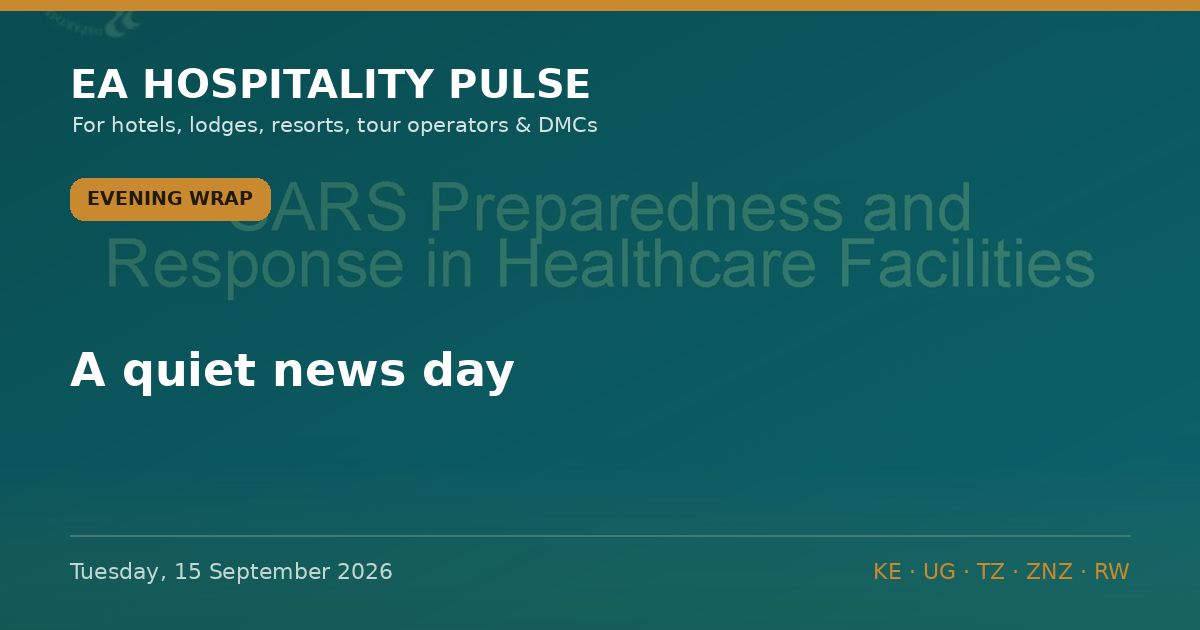
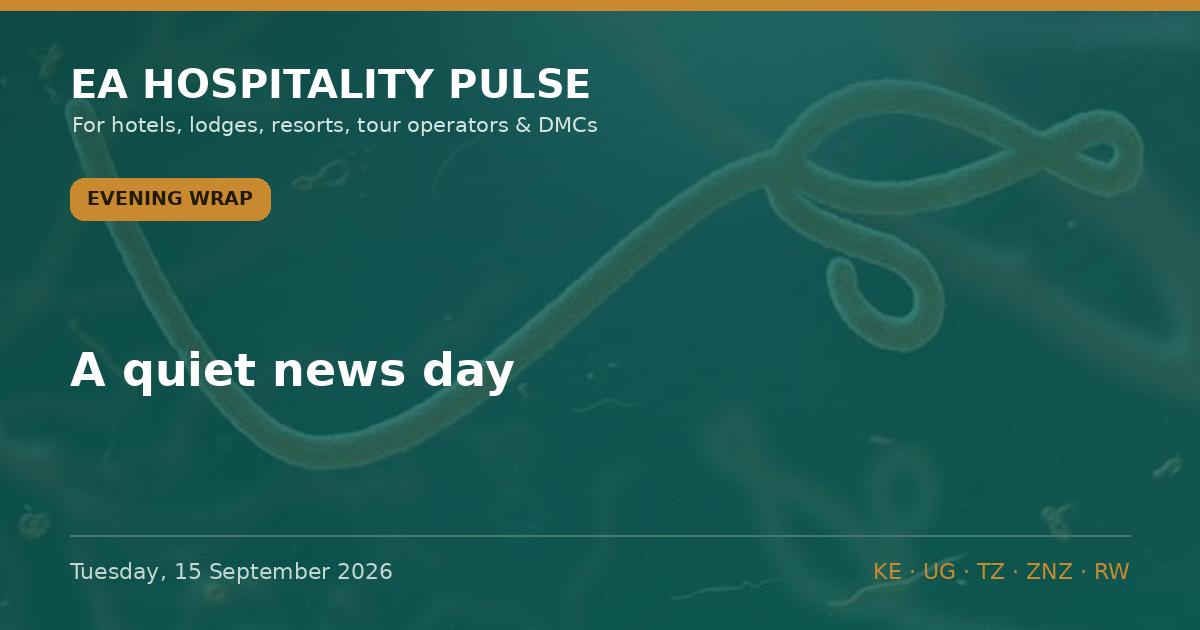
Auto-build: 2026-09-15 13:56 UTC

diff --git a/data.js b/data.js
@@ -6,7 +6,7 @@ window.EDITIONS = [
   "edition": "Evening Wrap",
   "editionKey": "evening",
   "summary": "A quiet news day. So here is the thing about Ebola this industry is measuring wrongly.",
-  "bodyHtml": "<p><span class=\"meta-line\">🏨 EA HOSPITALITY PULSE — Evening Wrap</span><br><span class=\"meta-line\">📅 Tuesday, 15 September 2026 | 🇰🇪 🇺🇬 🇷🇼 🇹🇿</span></p>\n<p>A quiet news day. So here is the thing about Ebola this industry is measuring wrongly.<br>━━━━━━━━━<br><strong>1⃣ THE NUMBER THAT PRICES YOUR Q4 IS NOT A CASE COUNT. IT IS MAP RESOLUTION.</strong></p>\n<p>DRC now stands at <strong>7,200 confirmed cases and 3,475 deaths</strong> on data to 12 September — up <strong>258 cases and 126 deaths in two days</strong> — with <strong>62 of 167 health zones</strong> affected across <strong>seven</strong> provinces <strong>(DRC INSP SitRep N°122/MVEBDB/13/09/2026, via ECDC, page updated 14 September 2026)</strong>. WHO&#x27;s DON617 of <strong>10 September</strong> had it at 6,757 and 3,267 across <strong>six</strong> provinces on 7 September data. North Kivu, the province that touches Uganda and Rwanda, carries the outbreak&#x27;s <strong>highest case fatality ratio at 65.4%</strong> and added <strong>453 confirmed cases in 21 days</strong> <strong>(WHO DON617)</strong>.</p>\n<p>Now the part operators miss. You are tracking your own country&#x27;s case count. What prices your rooms is the granularity of somebody else&#x27;s map.</p>\n<p>Every restriction written in this outbreak was written at <strong>country</strong> resolution. Rwanda denies entry to any foreign national who transited DRC within 30 days <strong>(Ministry of Health, Kigali, 22 May 2026)</strong>. Bahrain, Jordan, Kuwait, Lebanon, Mauritius, Taiwan, Canada and the UAE all named DRC, Uganda and South Sudan as <strong>countries</strong> <strong>(Fragomen, 9 June 2026)</strong>. None of them separates Ituri from Kinshasa, 1,600km apart.</p>\n<p>Uganda has had no confirmed case since <strong>21 June</strong> and was declared outbreak-free on <strong>25 August</strong> <strong>(WHO AFRO)</strong> — <strong>86 days clean</strong> on our arithmetic. It is still named.</p>\n<p><span class=\"sowhat\">🎯 <strong>So what:</strong> stop asking your DMC whether cases are falling. Ask one question instead — <strong>has any ministry moved from country-level to province-level language?</strong> That, not epidemiology, is the recovery signal. Restrictions arrive at the speed of news and leave at the speed of bureaucracy.</span><br><span class=\"tagline\">🏷 City, Bush | 🇺🇬 🇷🇼 | Confirmed (data) · Inference (transmission) | impact:risk</span><br>━━━━━━━━━<br>📻 <strong>STILL TRUE</strong> — Rwanda&#x27;s 22 May notice protects its own MICE book in the same breath as it closes the airport door: <strong>&quot;all activities within Rwanda continue as usual, including conferences, events, tourism.&quot;</strong> Study the drafting.</p>\n<p>💰 <strong>COST PULSE</strong> — EPRA retained all three grades for 15 Sep–14 Oct <strong>(review announced 14 September 2026)</strong>. Diesel landed cost rose <strong>11.86%</strong> and was not passed through. The 8% fuel VAT expires <strong>14 October</strong>, the day the freeze ends.</p>\n<p><span class=\"meta-line\">📅 <strong>WEEK AHEAD</strong> — WHO&#x27;s next biweekly Bundibugyo DON is due on or about <strong>24 September</strong>. Watch whether the province count prints at seven.</span></p>\n<p>🎪 <strong>MICE WATCH</strong> — nothing newly confirmed today. Africa MICE Summit, Mombasa, <strong>1–2 October</strong>, still sits inside the fixable-fuel window.</p>\n<p>🔎 <strong>Blind spots and provenance:</strong> KCAA&#x27;s eAIP and the Kenya Gazette portal again refused our crawler. Both recovered via mirrors on two queries each; nothing tourism-relevant in window. Africa CDC has published no September Epidemic Intelligence Weekly Report — the August edition is still the latest, so our continental read tonight rests on WHO and ECDC alone. For the record, our radar first observed DRC SitRep N°122 at 16:14 EAT today, three days after its 13 September date.</p>\n<p><span class=\"meta-line\">💬 Has an agent asked you about Ebola this month — and did they name a country or a province?</span></p>\n<p>🔗 This edition on the web: <a href=\"https://eahospitalitypulse.com/editions/pulse-2026-09-15-evening.html\" rel=\"noopener\">eahospitalitypulse.com/editions/pulse-2026-09-15-evenin…</a><br>💼 Today&#x27;s Big Read on LinkedIn: <a href=\"https://www.linkedin.com/company/ea-hospitality-pulse/\" rel=\"noopener\">linkedin.com/company/ea-hospitality-pulse/</a><br>— EA Hospitality Pulse | Daily intelligence for city, bush &amp; beach properties</p>"
+  "bodyHtml": "<p><span class=\"meta-line\">🏨 EA HOSPITALITY PULSE — Evening Wrap</span><br><span class=\"meta-line\">📅 Tuesday, 15 September 2026 | 🇰🇪 🇺🇬 🇷🇼 🇹🇿</span></p>\n<p>A quiet news day. So here is the thing about Ebola this industry is measuring wrongly.<br>━━━━━━━━━<br><strong>1⃣ 86 DAYS EBOLA-FREE. STILL BANNED. THE RISK IS THE MAP, NOT THE VIRUS.</strong></p>\n<p>DRC now stands at <strong>7,200 confirmed cases and 3,475 deaths</strong> on data to 12 September — up <strong>258 cases and 126 deaths in two days</strong> — with <strong>62 of 167 health zones</strong> affected across <strong>seven</strong> provinces <strong>(DRC INSP SitRep N°122/MVEBDB/13/09/2026, via ECDC, page updated 14 September 2026)</strong>. WHO&#x27;s DON617 of <strong>10 September</strong> had it at 6,757 and 3,267 across <strong>six</strong> provinces on 7 September data. North Kivu, the province that touches Uganda and Rwanda, carries the outbreak&#x27;s <strong>highest case fatality ratio at 65.4%</strong> and added <strong>453 confirmed cases in 21 days</strong> <strong>(WHO DON617)</strong>.</p>\n<p>Now the part operators miss. You are tracking your own country&#x27;s case count. What prices your rooms is the granularity of somebody else&#x27;s map.</p>\n<p>Every restriction written in this outbreak was written at <strong>country</strong> resolution. Rwanda denies entry to any foreign national who transited DRC within 30 days <strong>(Ministry of Health, Kigali, 22 May 2026)</strong>. Bahrain, Jordan, Kuwait, Lebanon, Mauritius, Taiwan, Canada and the UAE all named DRC, Uganda and South Sudan as <strong>countries</strong> <strong>(Fragomen, 9 June 2026)</strong>. None of them separates Ituri from Kinshasa, 1,600km apart.</p>\n<p>Uganda has had no confirmed case since <strong>21 June</strong> and was declared outbreak-free on <strong>25 August</strong> <strong>(WHO AFRO)</strong> — <strong>86 days clean</strong> on our arithmetic. It is still named.</p>\n<p><span class=\"sowhat\">🎯 <strong>So what:</strong> stop asking your DMC whether cases are falling. Ask one question instead — <strong>has any ministry moved from country-level to province-level language?</strong> That, not epidemiology, is the recovery signal. Restrictions arrive at the speed of news and leave at the speed of bureaucracy.</span><br><span class=\"tagline\">🏷 City, Bush | 🇺🇬 🇷🇼 | Confirmed (data) · Inference (transmission) | impact:risk</span><br>━━━━━━━━━<br>📻 <strong>STILL TRUE</strong> — Rwanda&#x27;s 22 May notice protects its own MICE book in the same breath as it closes the airport door: <strong>&quot;all activities within Rwanda continue as usual, including conferences, events, tourism.&quot;</strong> Study the drafting.</p>\n<p>💰 <strong>COST PULSE</strong> — EPRA retained all three grades for 15 Sep–14 Oct <strong>(review announced 14 September 2026)</strong>. Diesel landed cost rose <strong>11.86%</strong> and was not passed through. The 8% fuel VAT expires <strong>14 October</strong>, the day the freeze ends.</p>\n<p><span class=\"meta-line\">📅 <strong>WEEK AHEAD</strong> — WHO&#x27;s next biweekly Bundibugyo DON is due on or about <strong>24 September</strong>. Watch whether the province count prints at seven.</span></p>\n<p>🎪 <strong>MICE WATCH</strong> — nothing newly confirmed today. Africa MICE Summit, Mombasa, <strong>1–2 October</strong>, still sits inside the fixable-fuel window.</p>\n<p>🔎 <strong>Blind spots and provenance:</strong> KCAA&#x27;s eAIP and the Kenya Gazette portal again refused our crawler. Both recovered via mirrors on two queries each; nothing tourism-relevant in window. Africa CDC has published no September Epidemic Intelligence Weekly Report — the August edition is still the latest, so our continental read tonight rests on WHO and ECDC alone. For the record, our radar first observed DRC SitRep N°122 at 16:14 EAT today, three days after its 13 September date.</p>\n<p><span class=\"meta-line\">💬 Has an agent asked you about Ebola this month — and did they name a country or a province?</span></p>\n<p>🔗 This edition on the web: <a href=\"https://eahospitalitypulse.com/editions/pulse-2026-09-15-evening.html\" rel=\"noopener\">eahospitalitypulse.com/editions/pulse-2026-09-15-evenin…</a><br>💼 Today&#x27;s Big Read on LinkedIn: <a href=\"https://www.linkedin.com/company/ea-hospitality-pulse/\" rel=\"noopener\">linkedin.com/company/ea-hospitality-pulse/</a><br>— EA Hospitality Pulse | Daily intelligence for city, bush &amp; beach properties</p>"
  },
  {
   "id": "pulse-2026-09-15-morning",
@@ -991,7 +991,7 @@ window.INSIGHTS = [
   "editionKey": "morning"
  },
  {
-  "headline": "THE NUMBER THAT PRICES YOUR Q4 IS NOT A CASE COUNT. IT IS MAP RESOLUTION.",
+  "headline": "86 DAYS EBOLA-FREE. STILL BANNED. THE RISK IS THE MAP, NOT THE VIRUS.",
   "body": "DRC now stands at **7,200 confirmed cases and 3,475 deaths** on data to 12 September — up **258 cases and 126 deaths in two days** — with **62 of 167 health zones** affected across **seven** provinces *(DRC INSP SitRep N°122/MVEBDB/13/09/2026, via ECDC, page updated 14 September 2026)*. WHO's DON617 of **10 September** had it at 6,757 and 3,267 across **six** provinces on 7 September data. North Kivu, the province that touches Uganda and Rwanda, carries the outbreak's **highest case fatality ratio at 65.4%** and added **453 confirmed cases in 21 days** *(WHO DON617)*. Now the part operators miss. You are tracking your own country's case count. What prices your rooms is the granularity of somebody else's map. Every restriction written in this outbreak was written at **country** resolution. Rwanda denies entry to any foreign national who transited DRC within 30 days *(Ministry of Health, Kigali, 22 May 2026)*. Bahrain, Jordan, Kuwait, Lebanon, Mauritius, Taiwan, Canada and the UAE all named DRC, Uganda and South Sudan as **countries** *(Fragomen, 9 June 2026)*. None of them separates Ituri from Kinshasa, 1,600km apart. Uganda has had no confirmed case since **21 June** and was declared outbreak-free on **25 August** *(WHO AFRO)* — **86 days clean** on our arithmetic. It is still named.",
   "sowhat": "🎯 **So what:** stop asking your DMC whether cases are falling. Ask one question instead — *has any ministry moved from country-level to province-level language?* That, not epidemiology, is the recovery signal. Restrictions arrive at the speed of news and leave at the speed of bureaucracy.",
   "segments": [
@@ -4604,4 +4604,4 @@ window.INSIGHTS = [
   "editionKey": "evening"
  }
 ];
-window.BUILT_AT = "2026-09-15 13:48";
+window.BUILT_AT = "2026-09-15 13:55";

diff --git a/editions/pulse-2026-09-15-evening.html b/editions/pulse-2026-09-15-evening.html
@@ -29,7 +29,7 @@
 <meta property="article:section" content="Evening Wrap">
 <meta property="og:locale" content="en_GB">
 <meta name="twitter:site" content="@eapulse">
-<script type="application/ld+json">{"@context": "https://schema.org", "@type": "NewsArticle", "headline": "A quiet news day", "datePublished": "2026-09-15", "dateModified": "2026-09-15", "description": "A quiet news day. So here is the thing about Ebola this industry is measuring wrongly.", "url": "https://eahospitalitypulse.com/editions/pulse-2026-09-15-evening.html", "mainEntityOfPage": "https://eahospitalitypulse.com/editions/pulse-2026-09-15-evening.html", "image": ["https://eahospitalitypulse.com/og/pulse-2026-09-15-evening.png"], "inLanguage": "en", "isAccessibleForFree": true, "articleSection": "Evening Wrap", "author": {"@id": "https://eahospitalitypulse.com/#org"}, "publisher": {"@type": "Organization", "@id": "https://eahospitalitypulse.com/#org", "name": "EA Hospitality Pulse", "url": "https://eahospitalitypulse.com/", "logo": {"@type": "ImageObject", "url": "https://eahospitalitypulse.com/apple-touch-icon.png"}, "sameAs": ["https://t.me/eahospitalitypulse", "https://www.linkedin.com/company/ea-hospitality-pulse/", "https://whatsapp.com/channel/0029VbCjul2KmCPTv8Qrh73b"]}, "isPartOf": {"@type": "WebSite", "@id": "https://eahospitalitypulse.com/#website", "name": "EA Hospitality Pulse", "url": "https://eahospitalitypulse.com/", "publisher": {"@id": "https://eahospitalitypulse.com/#org"}}, "keywords": "East Africa hospitality, Evening Wrap, Kenya, Uganda, Tanzania, Zanzibar, Rwanda, travel advisories, hotel demand, tourism", "wordCount": 557, "speakable": {"@type": "SpeakableSpecification", "cssSelector": ["h1", ".standfirst", ".sowhat"]}, "about": [{"@type": "Place", "name": "Kenya", "sameAs": "https://en.wikipedia.org/wiki/Kenya"}, {"@type": "Place", "name": "Uganda", "sameAs": "https://en.wikipedia.org/wiki/Uganda"}, {"@type": "Place", "name": "Tanzania", "sameAs": "https://en.wikipedia.org/wiki/Tanzania"}, {"@type": "Place", "name": "Zanzibar", "sameAs": "https://en.wikipedia.org/wiki/Zanzibar"}, {"@type": "Place", "name": "Rwanda", "sameAs": "https://en.wikipedia.org/wiki/Rwanda"}, {"@type": "Thing", "name": "Hospitality industry", "sameAs": "https://en.wikipedia.org/wiki/Hospitality_industry"}, {"@type": "Thing", "name": "Tourism", "sameAs": "https://en.wikipedia.org/wiki/Tourism"}], "spatialCoverage": [{"@type": "Place", "name": "Kenya", "sameAs": "https://en.wikipedia.org/wiki/Kenya"}, {"@type": "Place", "name": "Uganda", "sameAs": "https://en.wikipedia.org/wiki/Uganda"}, {"@type": "Place", "name": "Tanzania", "sameAs": "https://en.wikipedia.org/wiki/Tanzania"}, {"@type": "Place", "name": "Zanzibar", "sameAs": "https://en.wikipedia.org/wiki/Zanzibar"}, {"@type": "Place", "name": "Rwanda", "sameAs": "https://en.wikipedia.org/wiki/Rwanda"}]}</script>
+<script type="application/ld+json">{"@context": "https://schema.org", "@type": "NewsArticle", "headline": "A quiet news day", "datePublished": "2026-09-15", "dateModified": "2026-09-15", "description": "A quiet news day. So here is the thing about Ebola this industry is measuring wrongly.", "url": "https://eahospitalitypulse.com/editions/pulse-2026-09-15-evening.html", "mainEntityOfPage": "https://eahospitalitypulse.com/editions/pulse-2026-09-15-evening.html", "image": ["https://eahospitalitypulse.com/og/pulse-2026-09-15-evening.png"], "inLanguage": "en", "isAccessibleForFree": true, "articleSection": "Evening Wrap", "author": {"@id": "https://eahospitalitypulse.com/#org"}, "publisher": {"@type": "Organization", "@id": "https://eahospitalitypulse.com/#org", "name": "EA Hospitality Pulse", "url": "https://eahospitalitypulse.com/", "logo": {"@type": "ImageObject", "url": "https://eahospitalitypulse.com/apple-touch-icon.png"}, "sameAs": ["https://t.me/eahospitalitypulse", "https://www.linkedin.com/company/ea-hospitality-pulse/", "https://whatsapp.com/channel/0029VbCjul2KmCPTv8Qrh73b"]}, "isPartOf": {"@type": "WebSite", "@id": "https://eahospitalitypulse.com/#website", "name": "EA Hospitality Pulse", "url": "https://eahospitalitypulse.com/", "publisher": {"@id": "https://eahospitalitypulse.com/#org"}}, "keywords": "East Africa hospitality, Evening Wrap, Kenya, Uganda, Tanzania, Zanzibar, Rwanda, travel advisories, hotel demand, tourism", "wordCount": 555, "speakable": {"@type": "SpeakableSpecification", "cssSelector": ["h1", ".standfirst", ".sowhat"]}, "about": [{"@type": "Place", "name": "Kenya", "sameAs": "https://en.wikipedia.org/wiki/Kenya"}, {"@type": "Place", "name": "Uganda", "sameAs": "https://en.wikipedia.org/wiki/Uganda"}, {"@type": "Place", "name": "Tanzania", "sameAs": "https://en.wikipedia.org/wiki/Tanzania"}, {"@type": "Place", "name": "Zanzibar", "sameAs": "https://en.wikipedia.org/wiki/Zanzibar"}, {"@type": "Place", "name": "Rwanda", "sameAs": "https://en.wikipedia.org/wiki/Rwanda"}, {"@type": "Thing", "name": "Hospitality industry", "sameAs": "https://en.wikipedia.org/wiki/Hospitality_industry"}, {"@type": "Thing", "name": "Tourism", "sameAs": "https://en.wikipedia.org/wiki/Tourism"}], "spatialCoverage": [{"@type": "Place", "name": "Kenya", "sameAs": "https://en.wikipedia.org/wiki/Kenya"}, {"@type": "Place", "name": "Uganda", "sameAs": "https://en.wikipedia.org/wiki/Uganda"}, {"@type": "Place", "name": "Tanzania", "sameAs": "https://en.wikipedia.org/wiki/Tanzania"}, {"@type": "Place", "name": "Zanzibar", "sameAs": "https://en.wikipedia.org/wiki/Zanzibar"}, {"@type": "Place", "name": "Rwanda", "sameAs": "https://en.wikipedia.org/wiki/Rwanda"}]}</script>
 <script type="application/ld+json">{"@context": "https://schema.org", "@type": "BreadcrumbList", "itemListElement": [{"@type": "ListItem", "position": 1, "name": "Home", "item": "https://eahospitalitypulse.com/"}, {"@type": "ListItem", "position": 2, "name": "Editions", "item": "https://eahospitalitypulse.com/#archive"}, {"@type": "ListItem", "position": 3, "name": "Evening Wrap \u2014 Tuesday, 15 September 2026", "item": "https://eahospitalitypulse.com/editions/pulse-2026-09-15-evening.html"}]}</script>
 <style>
 :root{--sand:#f6f1e7;--ink:#1f2421;--muted:#6b6656;--gold:#c8892f;--gold-d:#a86f1f;--teal:#0f6d63;--teal-d:#0a4f48;--line:#e2d8c4;--sand-2:#efe7d6;--card:#fffdf9;--serif:Georgia,"Iowan Old Style","Times New Roman",serif;--sans:-apple-system,BlinkMacSystemFont,"Segoe UI Variable Text","Segoe UI",Inter,Roboto,"Helvetica Neue",Arial,sans-serif;--mono:ui-monospace,"SF Mono",Menlo,Consolas,"Liberation Mono",monospace;--r:12px;--r-sm:6px;--r-xs:3px}
@@ -230,12 +230,12 @@ footer.s .f-geo{margin:0;font:600 10.5px/1.6 var(--mono);letter-spacing:.12em;
 <main class="wrap" id="content">
   <article class="art">
     <img class="hero" src="../og/pulse-2026-09-15-evening-clean.png" width="1200" height="630" alt="Evening Wrap — Tuesday, 15 September 2026" loading="eager" fetchpriority="high" decoding="async">
-    <p class="hcredit">Photo: United States Centers for Disease Control and Prevention · <a href="https://commons.wikimedia.org/wiki/File:Sars_health_care_prep.pdf" target="_blank" rel="noopener nofollow">Wikimedia Commons</a> · Public domain</p>
+    <p class="hcredit">Photo: EA Hospitality Pulse · EA Hospitality Pulse · Own work</p>
     <nav class="crumbs" aria-label="Breadcrumb"><a href="../index.html">Home</a><span aria-hidden="true">/</span><a href="../index.html#archive">Editions</a><span aria-hidden="true">/</span><span aria-current="page">Evening Wrap, Tuesday, 15 September 2026</span></nav>
     <div class="kicker"><span class="badge">Evening Wrap</span><time datetime="2026-09-15">Tuesday, 15 September 2026</time></div>
     <h1>A quiet news day.</h1>
     
-    <p>A quiet news day. So here is the thing about Ebola this industry is measuring wrongly.<br>━━━━━━━━━<br><strong>1⃣ THE NUMBER THAT PRICES YOUR Q4 IS NOT A CASE COUNT. IT IS MAP RESOLUTION.</strong></p>
+    <p>A quiet news day. So here is the thing about Ebola this industry is measuring wrongly.<br>━━━━━━━━━<br><strong>1⃣ 86 DAYS EBOLA-FREE. STILL BANNED. THE RISK IS THE MAP, NOT THE VIRUS.</strong></p>
 <p>DRC now stands at <strong>7,200 confirmed cases and 3,475 deaths</strong> on data to 12 September — up <strong>258 cases and 126 deaths in two days</strong> — with <strong>62 of 167 health zones</strong> affected across <strong>seven</strong> provinces <strong>(DRC INSP SitRep N°122/MVEBDB/13/09/2026, via ECDC, page updated 14 September 2026)</strong>. WHO&#x27;s DON617 of <strong>10 September</strong> had it at 6,757 and 3,267 across <strong>six</strong> provinces on 7 September data. North Kivu, the province that touches Uganda and Rwanda, carries the outbreak&#x27;s <strong>highest case fatality ratio at 65.4%</strong> and added <strong>453 confirmed cases in 21 days</strong> <strong>(WHO DON617)</strong>.</p>
 <p>Now the part operators miss. You are tracking your own country&#x27;s case count. What prices your rooms is the granularity of somebody else&#x27;s map.</p>
 <p>Every restriction written in this outbreak was written at <strong>country</strong> resolution. Rwanda denies entry to any foreign national who transited DRC within 30 days <strong>(Ministry of Health, Kigali, 22 May 2026)</strong>. Bahrain, Jordan, Kuwait, Lebanon, Mauritius, Taiwan, Canada and the UAE all named DRC, Uganda and South Sudan as <strong>countries</strong> <strong>(Fragomen, 9 June 2026)</strong>. None of them separates Ituri from Kinshasa, 1,600km apart.</p>

diff --git a/index.html b/index.html
@@ -469,7 +469,7 @@
   .imp-demand{color:var(--sage)} .imp-margin{color:var(--coral)} .imp-risk{color:#ff5b5b} .imp-watch{color:var(--amber)}
   @media(max-width:520px){.imp{position:static;display:inline-flex;margin:0 0 9px}.insight h3,.insight .imeta{padding-right:0}}
 </style>
-<!--BUILD_STAMP:20260915-1348--></head>
+<!--BUILD_STAMP:20260915-1355--></head>
 <body>
 <header class="site">
   <div class="wrap topbar">

diff --git a/ledger.js b/ledger.js
@@ -1,5 +1,5 @@
 window.LEDGER = {
- "updated": "2026-09-15 13:48",
+ "updated": "2026-09-15 13:56",
  "stats": {
   "total": 187,
   "open": 136,
